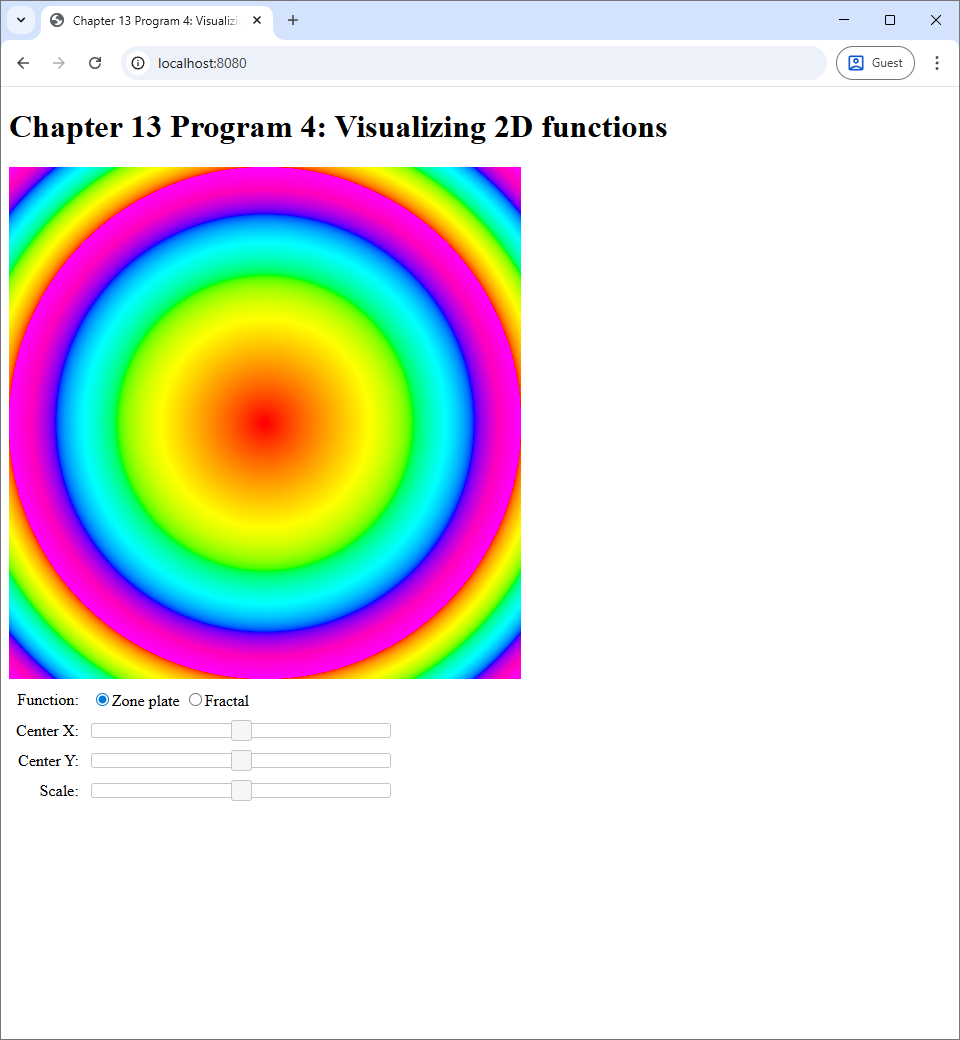
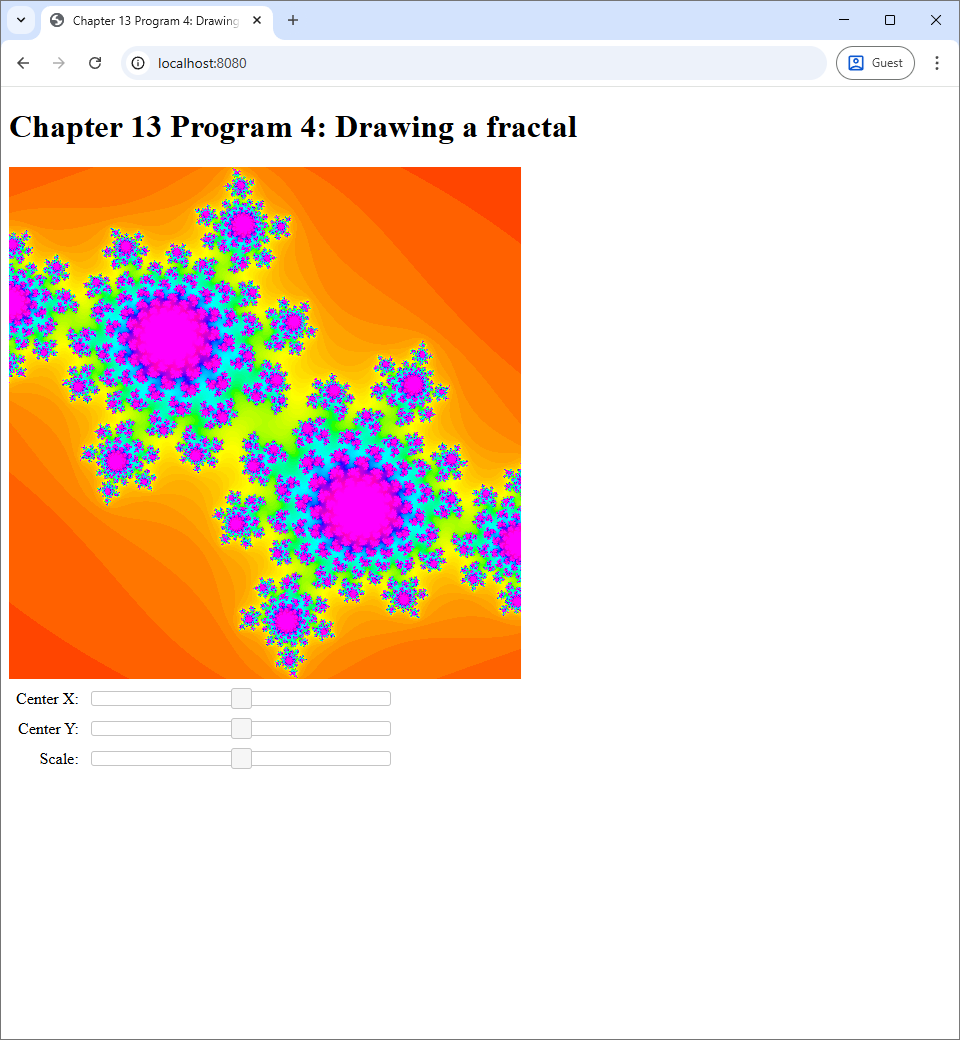
more work

Changed region(s): [[0.0, 0.0923, 0.6875, 0.7692], [0.2188, 0.0, 0.25, 0.0308]]

diff --git a/chapter-13/index.html b/chapter-13/index.html
@@ -488,7 +488,11 @@ void main() {
       <figcaption class="figure-caption"><strong>Figure 13.11</strong> Screenshots of Program 4.</figcaption>
     </figure>
 
-    <p>The images that Program 4 show are much complicated and psychedelic than the simple images that we have seen so far in this chapter.</p>
+    <p>The images that Program 4 show are much more complicated and psychedelic than the simple images that we have seen so far in this chapter. However, Program 4 is just a fancier version of Program 3. The mesh rendered and the vertex shader are exactly the same. The biggest difference is the fragment shader. Instead of just directly outputing the <code>geom_position</code> varying variable as color, Program 4's fragment shader converts the 2D position into a color that varies rapidly as the position changes. Let us see how it is done.</p>
+
+    <h3>13.4.1 &nbsp; Zone plate</h3>
+
+    <h3>13.4.2 &nbsp; Mandelbrot set</h3>
 
     <hr>
     <p>
